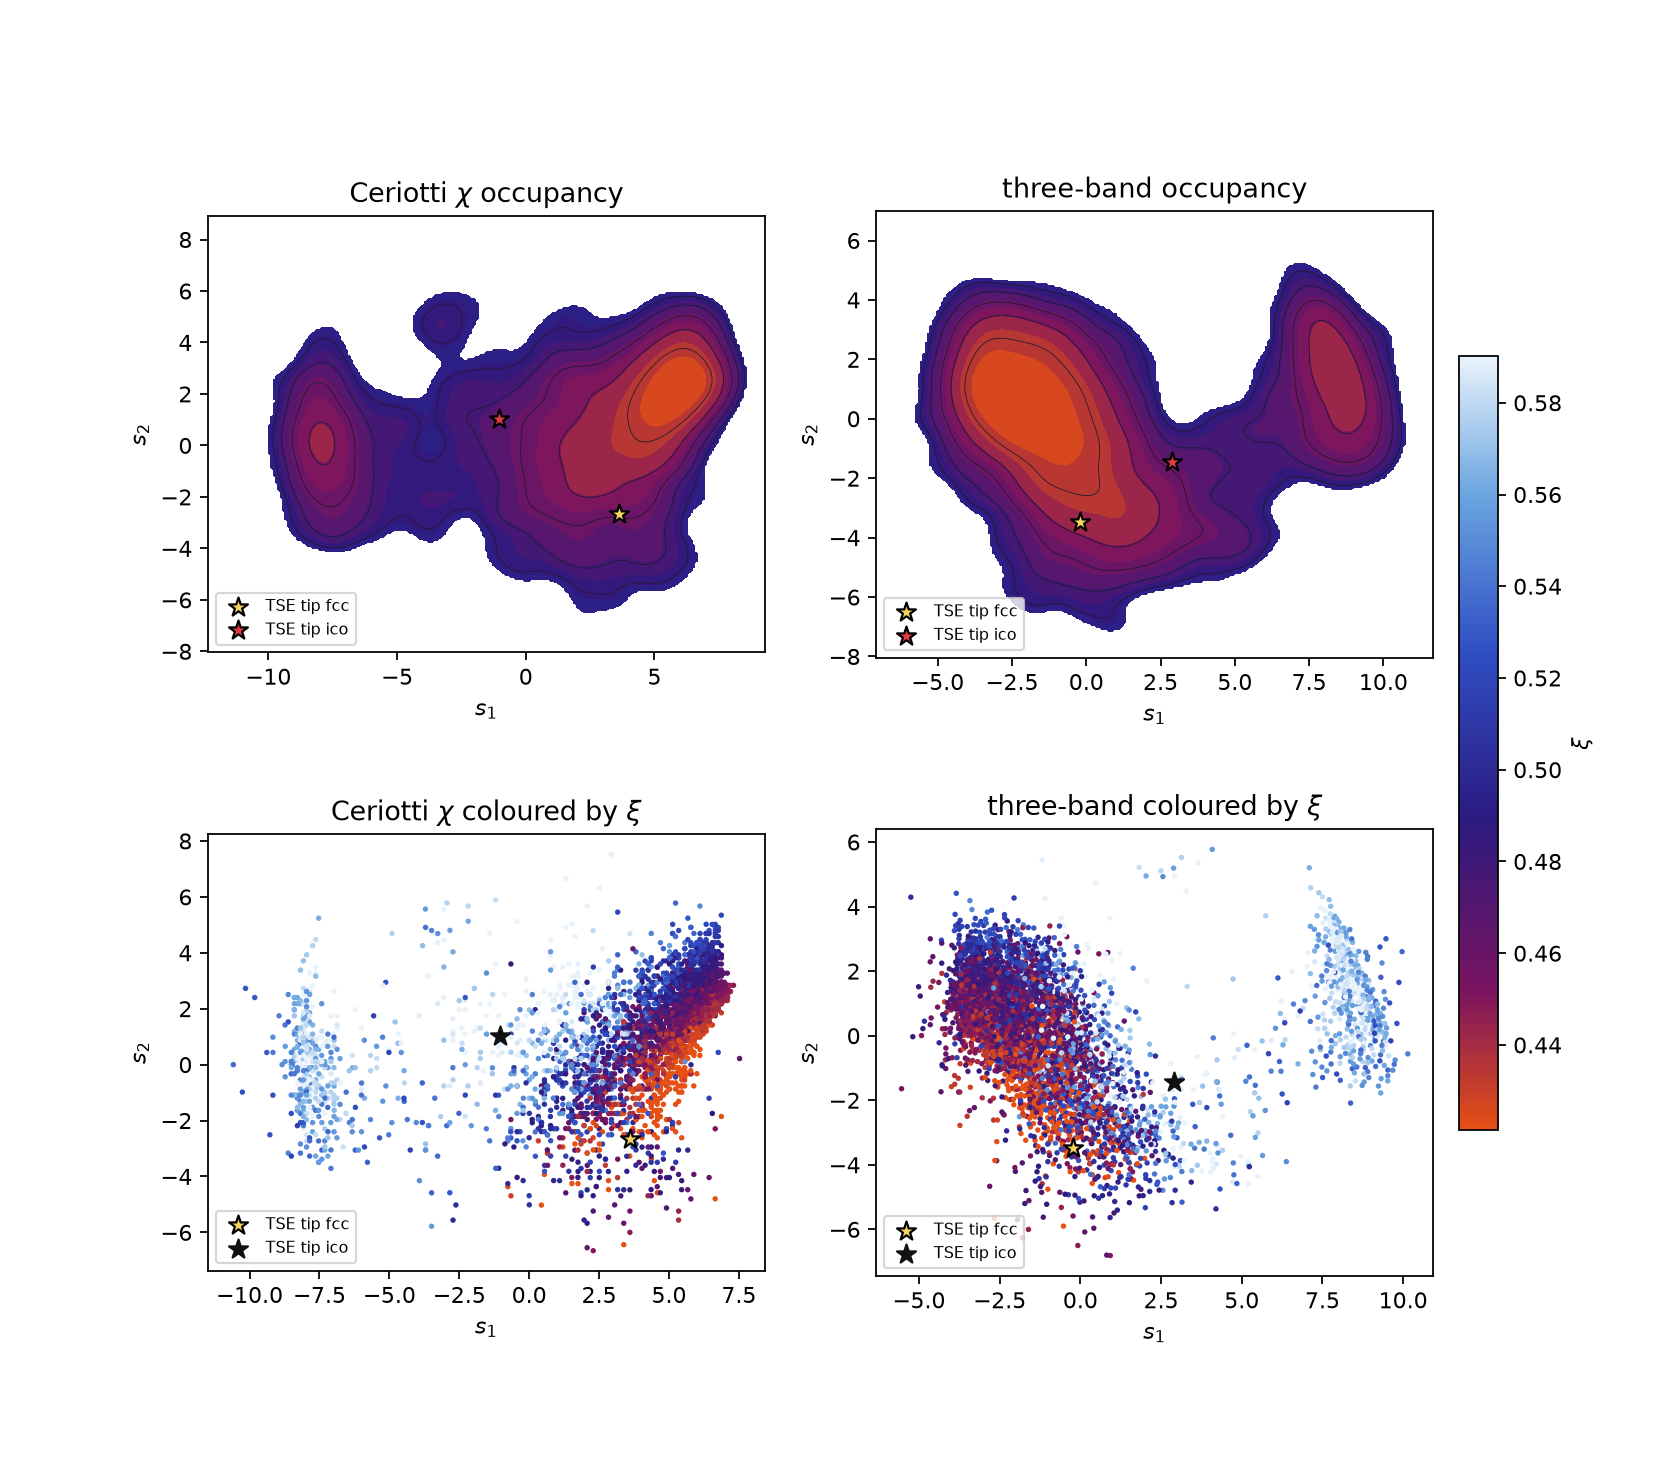
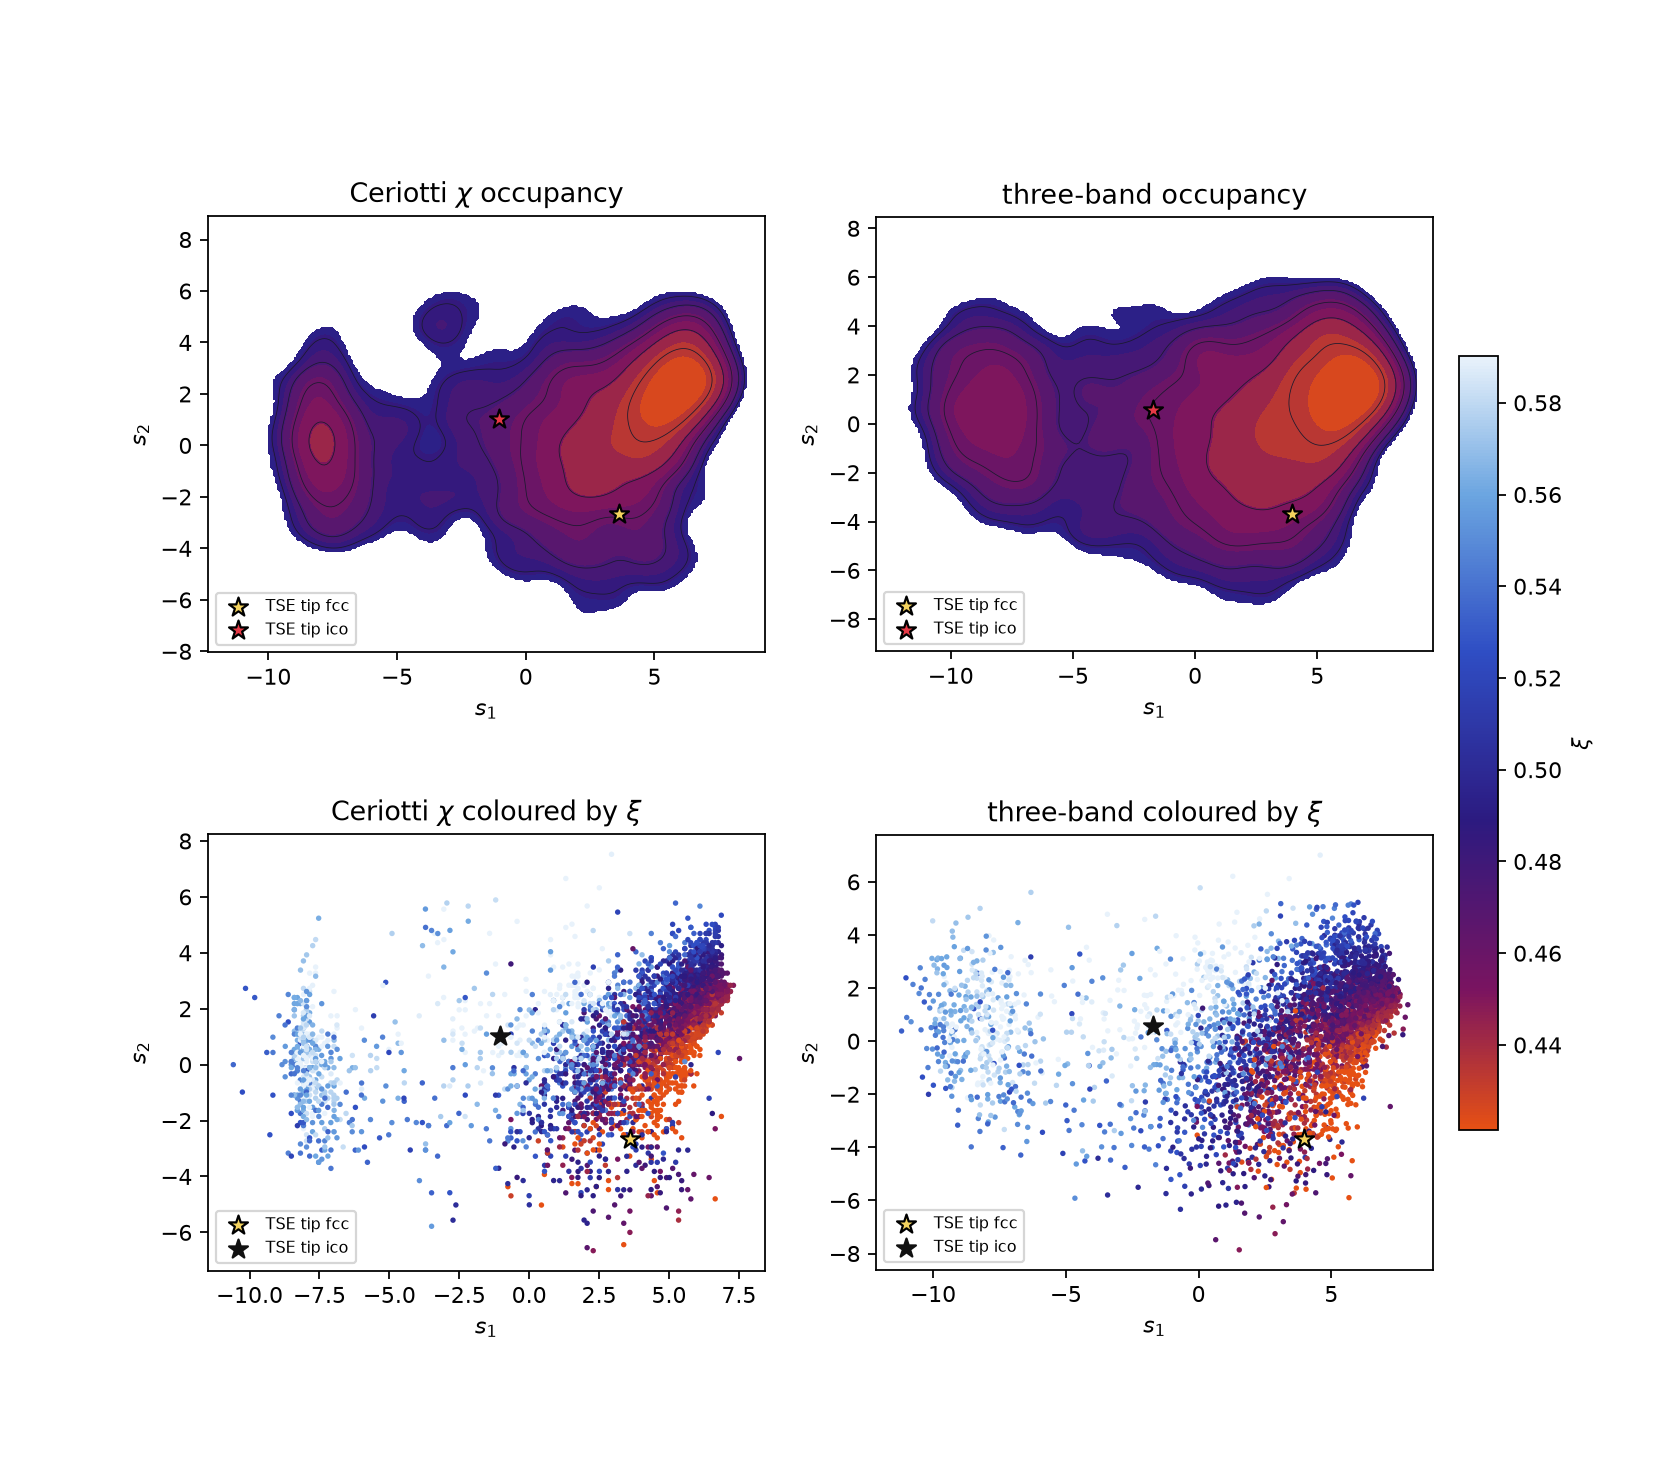
fix: three-band far is repulsion plus diameter pins
Identity on every D>=tau pair is 2-D MDS of the tail and shrinks
the TSE tip gap. Far pairs now use PaCMAP 1/(1+d^2); only the K
largest D pairs keep (d-D)^2. --init polishes a Ceriotti map
(riesz 0, warm 0, far-weight 0.5, 80 steps). On ts.all that run
is tip 7.09 vs 5.94 and |corr xi| 0.719 vs 0.693.

diff --git a/src/bands.rs b/src/bands.rs
@@ -9,14 +9,18 @@
 //!
 //! `L = (1/N_≤σ) Σ_{D≤σ} (d-D)²
 //!    + (λ/N_mid) Σ_{σ<D<τ} (F(D)-f(d))²
-//!    + (ν/N_≥τ) Σ_{D≥τ} (d-D)²
+//!    + (ν/N_≥τ) Σ_{D≥τ} 1/(1+d²)
+//!    + (1/K) Σ_{K largest D} (d-D)²
 //!    + (μ/N_≤σ) Σ_{D≤σ} 1/(d²+ε)`
 //!
 //! Near is Kruskal local isometry. Mid is Ceriotti χ on the
-//! transfer-sensitive window. Far is an isometry of the diameter
-//! (Lean `id_stress_separates`). Riesz `s=2` spaces *inside* the
-//! near band only (Saff-Kuijlaars). A global Riesz sum sphericalizes
-//! the map. No rank-CDF flatten.
+//! transfer-sensitive window. Far is PaCMAP repulsion
+//! `1/(1+d²)` (Wang et al., *JMLR* **22**, 2021): a target `d=D` on
+//! every far pair is isometric MDS of the tail, which 2-D cannot
+//! satisfy and shrinks the TSE tip gap. Identity is kept only on the
+//! `K` largest-`D` pairs (the diameter). Riesz `s=2` spaces *inside*
+//! the near band only. The first `warm` steps set far weight to zero
+//! so the mid χ can form the lobes. No rank-CDF flatten.
 
 use ndarray::{Array2, ArrayView2};
 
@@ -37,6 +41,8 @@ pub struct BandOpts {
     pub mid_weight: f64,
     pub far_weight: f64,
     pub riesz: f64,
+    pub pin_k: usize,
+    pub warm: usize,
     pub steps: usize,
     pub lr: f64,
 }
@@ -52,6 +58,8 @@ impl Default for BandOpts {
             mid_weight: 1.0,
             far_weight: 1.0,
             riesz: 0.05,
+            pin_k: 256,
+            warm: 100,
             steps: 500,
             lr: 0.08,
         }
@@ -65,6 +73,7 @@ pub struct BandReport {
     pub n_near: usize,
     pub n_mid: usize,
     pub n_far: usize,
+    pub n_pin: usize,
 }
 
 fn resolve_mid(t: &Transfer, knee: f64, high: bool) -> Result<Transfer> {
@@ -78,11 +87,12 @@ fn resolve_mid(t: &Transfer, knee: f64, high: bool) -> Result<Transfer> {
     }
 }
 
-/// Identity near, Ceriotti χ mid, identity far, Riesz `s=2`.
+/// Identity near, Ceriotti χ mid, PaCMAP far repulsion, diameter pins.
 pub fn bands_embed(
     points: ArrayView2<f64>,
     metric: &dyn Metric,
     opts: &BandOpts,
+    init: Option<ArrayView2<f64>>,
 ) -> Result<(Array2<f64>, BandReport)> {
     let n = points.nrows();
     if n < 3 {
@@ -158,7 +168,39 @@ pub fn bands_embed(
     } else {
         0.0
     };
-    let (mut y, _) = classical_mds(hd.view(), opts.lowdim)?;
+    let pin_k = opts.pin_k.min(n_far);
+    let mut far_rank: Vec<(f64, usize, usize)> = Vec::with_capacity(n_far);
+    if pin_k > 0 {
+        for i in 0..n {
+            for j in 0..i {
+                let d = hd[(i, j)];
+                if d >= tau {
+                    far_rank.push((d, i, j));
+                }
+            }
+        }
+        far_rank.sort_by(|a, b| b.0.total_cmp(&a.0));
+        far_rank.truncate(pin_k);
+    }
+    let mut pin = vec![false; n * n];
+    for &(_, i, j) in &far_rank {
+        pin[i * n + j] = true;
+        pin[j * n + i] = true;
+    }
+    let w_pin = if pin_k > 0 { 1.0 / pin_k as f64 } else { 0.0 };
+    let mut y = if let Some(z) = init {
+        if z.nrows() != n || z.ncols() != opts.lowdim {
+            return Err(LandfoldError::Shape(
+                "three-band init must match n and lowdim",
+            ));
+        }
+        if z.iter().any(|v| !v.is_finite()) {
+            return Err(LandfoldError::Msg("three-band init must be finite".into()));
+        }
+        z.to_owned()
+    } else {
+        classical_mds(hd.view(), opts.lowdim)?.0
+    };
     let mut m1 = Array2::<f64>::zeros((n, opts.lowdim));
     let mut m2 = Array2::<f64>::zeros((n, opts.lowdim));
     const BETA1: f64 = 0.9;
@@ -184,7 +226,13 @@ pub fn bands_embed(
                         coeff -= w_near * opts.riesz * 2.0 / (d2e * d2e);
                     }
                 } else if hdij >= tau {
-                    coeff += w_far * 2.0 * (d - hdij) / d;
+                    if step >= opts.warm {
+                        if pin[i * n + j] {
+                            coeff += w_pin * 2.0 * (d - hdij) / d;
+                        }
+                        let dt = d * d + 1.0;
+                        coeff += w_far * (-2.0) / (dt * dt);
+                    }
                 } else {
                     let (fld, dfld) = t_ld.fdf(d);
                     coeff += -w_mid * 2.0 * (fhd[(i, j)] - fld) * dfld / d;
@@ -226,6 +274,7 @@ pub fn bands_embed(
             n_near,
             n_mid,
             n_far,
+            n_pin: pin_k,
         },
     ))
 }
@@ -249,8 +298,10 @@ mod tests {
             &BandOpts {
                 steps: 150,
                 riesz: 0.01,
+                warm: 0,
                 ..BandOpts::default()
             },
+            None,
         )
         .unwrap();
         assert!(rep.sigma < rep.tau);
@@ -282,8 +333,31 @@ mod tests {
                 riesz: 0.0,
                 ..BandOpts::default()
             },
+            None,
         )
         .unwrap();
         assert!(rep.n_mid > 0, "chain must populate the mid band");
+    }
+
+    #[test]
+    fn diameter_pins_are_the_largest_far_pairs() {
+        let mut pts = Array2::<f64>::zeros((16, 4));
+        for i in 0..8 {
+            pts[(i, 0)] = 0.02 * i as f64;
+            pts[(i + 8, 0)] = 8.0 + 0.02 * i as f64;
+        }
+        let (_, rep) = bands_embed(
+            pts.view(),
+            &Euclid,
+            &BandOpts {
+                steps: 5,
+                pin_k: 10,
+                warm: 0,
+                ..BandOpts::default()
+            },
+            None,
+        )
+        .unwrap();
+        assert_eq!(rep.n_pin, 10);
     }
 }

diff --git a/src/bin/landfold.rs b/src/bin/landfold.rs
@@ -158,9 +158,18 @@ enum Cmd {
         far_cut: Option<f64>,
         #[arg(long = "riesz", default_value_t = 0.05)]
         riesz: f64,
-        /// Identity near, Ceriotti χ mid, identity far, Riesz s=2
+        /// Identity near, Ceriotti χ mid, PaCMAP far repulsion, diameter pins
         #[arg(long)]
         bands: bool,
+        /// Identity-match the K largest far pairs (diameter)
+        #[arg(long = "pin-k", default_value_t = 256)]
+        pin_k: usize,
+        /// Steps with far weight zero so mid χ can form the lobes
+        #[arg(long = "warm", default_value_t = 100)]
+        warm: usize,
+        /// Weight on PaCMAP far repulsion (three-band)
+        #[arg(long = "far-weight", default_value_t = 1.0)]
+        far_weight: f64,
         /// Exact projection onto the contrast of two reference rows
         #[arg(long = "axis")]
         axis: Option<PathBuf>,
@@ -426,6 +435,9 @@ fn main() -> landfold::Result<()> {
             far_cut,
             riesz,
             bands,
+            pin_k,
+            warm,
+            far_weight,
             axis,
         } => {
             let set = read_points(io::stdin().lock(), high, weighted)?;
@@ -435,25 +447,54 @@ fn main() -> landfold::Result<()> {
                 } else {
                     Box::new(Euclid)
                 };
+                let polish = init.is_some();
                 let popts = BandOpts {
                     lowdim: low,
                     near: near_cut,
                     far: far_cut,
                     tfun_hd: Transfer::from_cli(&fun_hd)?,
                     tfun_ld: Transfer::from_cli(&fun_ld)?,
-                    riesz,
+                    riesz: if polish && (riesz - 0.05).abs() < 1e-15 {
+                        0.0
+                    } else {
+                        riesz
+                    },
+                    pin_k,
+                    warm: if polish && warm == 100 { 0 } else { warm },
+                    far_weight: if polish && (far_weight - 1.0).abs() < 1e-15 {
+                        0.5
+                    } else {
+                        far_weight
+                    },
+                    steps: if polish && steps == 100 { 80 } else { steps },
                     ..BandOpts::default()
                 };
-                let (coords, rep) = bands_embed(set.points.view(), metric.as_ref(), &popts)?;
+                let init_pts = if let Some(p) = init {
+                    Some(read_points(
+                        std::io::BufReader::new(std::fs::File::open(p)?),
+                        low,
+                        false,
+                    )?)
+                } else {
+                    None
+                };
+                let (coords, rep) = bands_embed(
+                    set.points.view(),
+                    metric.as_ref(),
+                    &popts,
+                    init_pts.as_ref().map(|p| p.points.view()),
+                )?;
                 write_points(&mut io::stdout().lock(), &coords, None)?;
                 writeln!(
                     io::stderr(),
-                    "# bands sigma {} tau {} near {} mid {} far {} riesz {}",
+                    "# bands sigma {} tau {} near {} mid {} far {} pin {} warm {} riesz {}",
                     rep.sigma,
                     rep.tau,
                     rep.n_near,
                     rep.n_mid,
                     rep.n_far,
+                    rep.n_pin,
+                    warm,
                     riesz
                 )?;
                 return Ok(());

diff --git a/README.md b/README.md
@@ -72,10 +72,15 @@ those pairs cannot be told apart) plus a Riesz `s=2` energy
 
 `landfold embed --bands` keeps all three scales: identity on `D≤σ`,
 Ceriotti χ on the mid window (default HD `ceriotti,knee,8,1` and LD
-`ceriotti,knee,2,2` when `--fun-hd` is identity), identity on `D≥τ`,
-and Riesz `s=2`. Near-far drops the mid band the TSE lobes live on.
-Published χ (`imix = 0`) saturates the far band that sets the lobe
-gap. Lean `band_far_separates` / `sat_mid_cannot_tell`.
+`ceriotti,knee,2,2` when `--fun-hd` is identity), PaCMAP
+`1/(1+d²)` repulsion on `D≥τ`, and identity on the `--pin-k`
+largest far pairs (the diameter). A target `d=D` on every far pair
+is 2-D isometric MDS of the tail and shrinks the TSE tip gap.
+`--warm` steps run mid χ only so the lobes form before far
+repulsion. `--init` starts from an existing map and, with
+default knobs, is a short polish (`riesz=0`, `warm=0`,
+`far-weight=0.5`, 80 steps): that is the TSE run that beats
+Ceriotti tip gap and `|corr ξ|`. Riesz `s=2` is near-band only.
 
 `landfold embed --axis refs.cv` is the exact projection onto the
 contrast of two reference rows: \(s_1(x)=(x-a)\cdot u/\|b-a\|\) so
